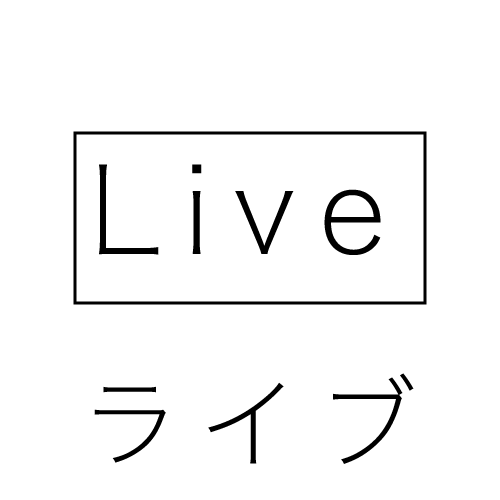
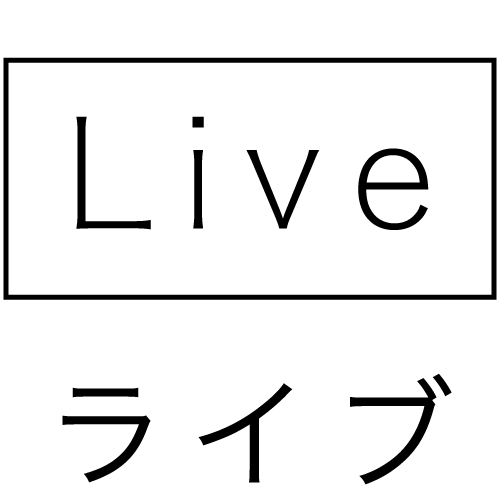
[WIP]homescreenの画像変更およびメインビジュアルの追加

diff --git a/src/main/js/screens/HomeScreen.js b/src/main/js/screens/HomeScreen.js
@@ -14,6 +14,7 @@ const pic = {
   uri: "https://upload.wikimedia.org/wikipedia/commons/d/de/Bananavarieties.jpg"
 };
 
+const mainVisual = require("../../img/deliveMainvisual.png");
 const homeIcon = require("../../img/home.png");
 const searchIcon = require("../../img/search.png");
 const liveIcon = require("../../img/live.png");
@@ -42,7 +43,7 @@ const styles = StyleSheet.create({
     marginTop: 50,
     marginBottom: 30
   },
-  mainImage: { height: 200 },
+  mainImage: { height: 200, width: "100%" },
   title: {
     padding: 10,
     fontSize: 20,
@@ -79,7 +80,7 @@ const HomeScreen = props => (
 
     <ScrollView style={styles.scrollView}>
       <View>
-        <Image source={pic} style={styles.mainImage} />
+        <Image source={mainVisual} style={styles.mainImage} />
       </View>
 
       <Text style={styles.title}>Live配信中</Text>
